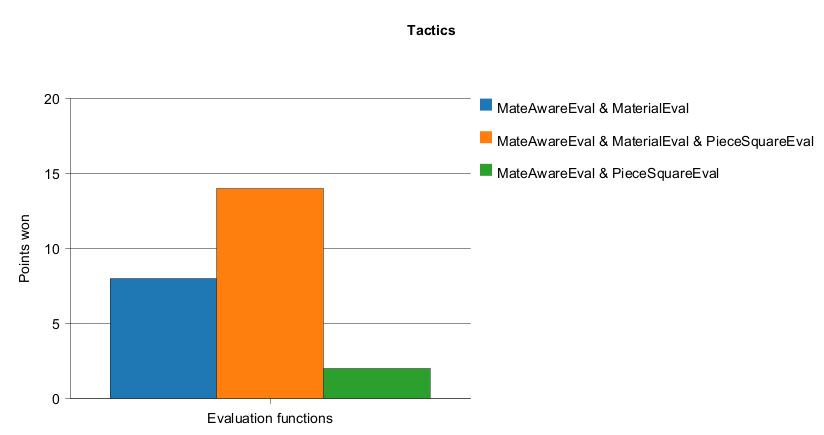
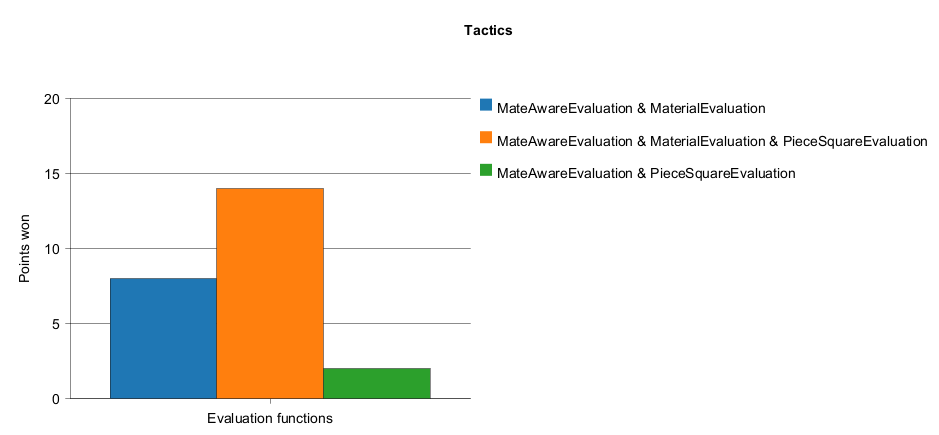
new names

diff --git a/docs/evaluation/report/movequality/Endgames.tex b/docs/evaluation/report/movequality/Endgames.tex
@@ -16,14 +16,14 @@
         >{\raggedright\arraybackslash}p{0.22\textwidth}|
         >{\centering\arraybackslash}p{0.30\textwidth}|
         >{\centering\arraybackslash}p{0.05\textwidth}|}
-\caption{Quality Test von Endgames / technique / zugzwang / fortress} \\
+\caption{Quality Test von Endgames} \\
 \hline
-\multicolumn{5}{|c|}{\textbf{Endgames / technique / zugzwang / fortress}} \\ \hline
+\multicolumn{5}{|c|}{\textbf{Endgames}} \\ \hline
 \textbf{FEN} & \textbf{Stockfish best next move} & \textbf{Evaluation} & \textbf{Move} & \textbf{Pkt.} \\ \hline
 \endfirsthead
 
 \hline
-\multicolumn{5}{|c|}{\textbf{Endgames / technique / zugzwang / fortress} -- Fortsetzung} \\ \hline
+\multicolumn{5}{|c|}{\textbf{Endgames} -- Fortsetzung} \\ \hline
 \textbf{FEN} & \textbf{Stockfish best next move} & \textbf{Evaluation} & \textbf{Move} & \textbf{Pkt.} \\ \hline
 \endhead
 
@@ -45,11 +45,11 @@
         1. f3a8\\2. f3e4\\3. f3b7\\4. f3d5\\5. f3b3
     \end{tabular}
 }
-& MateAwareEval \& MaterialEval & f3a8 & 8 \\
+& MateAwareEvaluation \& MaterialEvaluation & f3a8 & 8 \\
 \cline{3-5}
-&& MateAwareEval \& MaterialEval \& PieceSquareEval & f3a8 & 8 \\
+&& MateAwareEvaluation \& MaterialEvaluation \& PieceSquareEvaluation & f3a8 & 8 \\
 \cline{3-5}
-&& MateAwareEval \& PieceSquareEval & f3a8 & 8 \\
+&& MateAwareEvaluation \& PieceSquareEvaluation & f3a8 & 8 \\
 \hline
 \multirow{3}{*}{%
     \parbox[t]{0.18\textwidth}{\centering\footnotesize
@@ -62,11 +62,11 @@
         1. e3f4\\2. e3f3\\3. e3d3\\4. e3d2\\5. e3f2
     \end{tabular}
 }
-& MateAwareEval \& MaterialEval & e3d2, d5c4, e2e3, c4b3, e3e4, b3a2, e4e5, a2a1 & 2 \\
+& MateAwareEvaluation \& MaterialEvaluation & e3d2, d5c4, e2e3, c4b3, e3e4, b3a2, e4e5, a2a1 & 2 \\
 \cline{3-5}
-&& MateAwareEval \& MaterialEval \& PieceSquareEval & e3d3, d5c5, e2e4, c5c6, d3d4, c6d6, e4e5, d6e6 & 4 \\
+&& MateAwareEvaluation \& MaterialEvaluation \& PieceSquareEvaluation & e3d3, d5c5, e2e4, c5c6, d3d4, c6d6, e4e5, d6e6 & 4 \\
 \cline{3-5}
-&& MateAwareEval \& PieceSquareEval & e3d3, d5c5, e2e4, c5c6, d3d4, c6d6, e4e5, d6e6 & 4 \\
+&& MateAwareEvaluation \& PieceSquareEvaluation & e3d3, d5c5, e2e4, c5c6, d3d4, c6d6, e4e5, d6e6 & 4 \\
 \hline
 \multirow{3}{*}{%
     \parbox[t]{0.18\textwidth}{\centering\footnotesize
@@ -79,11 +79,11 @@
         1. f3g2\\2. f3f2\\3. f3e3\\4. f3e4\\5. f3g3
     \end{tabular}
 }
-& MateAwareEval \& MaterialEval & f3g2, c7c6, g2f1, c6c5, f1e1, c5b4, e1d1, b4a3 & 8 \\
+& MateAwareEvaluation \& MaterialEvaluation & f3g2, c7c6, g2f1, c6c5, f1e1, c5b4, e1d1, b4a3 & 8 \\
 \cline{3-5}
-&& MateAwareEval \& MaterialEval \& PieceSquareEval & f3g2, c7c6, g2f3, c6c5, f3e4, c5c4, e4e5, c4d3 & 8 \\
+&& MateAwareEvaluation \& MaterialEvaluation \& PieceSquareEvaluation & f3g2, c7c6, g2f3, c6c5, f3e4, c5c4, e4e5, c4d3 & 8 \\
 \cline{3-5}
-&& MateAwareEval \& PieceSquareEval & f3g2, c7c6, g2f3, c6c5, f3e4, c5c4, e4e5, c4d3 & 8 \\
+&& MateAwareEvaluation \& PieceSquareEvaluation & f3g2, c7c6, g2f3, c6c5, f3e4, c5c4, e4e5, c4d3 & 8 \\
 \hline
 \multirow{3}{*}{%
     \parbox[t]{0.18\textwidth}{\centering\footnotesize
@@ -96,11 +96,11 @@
         1. f2f3\\2. g3g4\\3. h2h4\\4. d4d1\\5. d4d2
     \end{tabular}
 }
-& MateAwareEval \& MaterialEval & f2f3, g6g5, h2h3, f7f5, f3f4, g5f4, g3f4, g7f6 & 8 \\
+& MateAwareEvaluation \& MaterialEvaluation & f2f3, g6g5, h2h3, f7f5, f3f4, g5f4, g3f4, g7f6 & 8 \\
 \cline{3-5}
-&& MateAwareEval \& MaterialEval \& PieceSquareEval & d4d6, g7h6, h2h4, h6h5, d6f6, g6g5, f6f7, g5h4 & 0 \\
+&& MateAwareEvaluation \& MaterialEvaluation \& PieceSquareEvaluation & d4d6, g7h6, h2h4, h6h5, d6f6, g6g5, f6f7, g5h4 & 0 \\
 \cline{3-5}
-&& MateAwareEval \& PieceSquareEval & d4d6, g6g5, g1f1, g7f8, d6e6, f7e6, f1e2, f8e7 & 0 \\
+&& MateAwareEvaluation \& PieceSquareEvaluation & d4d6, g6g5, g1f1, g7f8, d6e6, f7e6, f1e2, f8e7 & 0 \\
 \hline
 \multirow{3}{*}{%
     \parbox[t]{0.18\textwidth}{\centering\footnotesize
@@ -113,11 +113,11 @@
         1. d3e3\\2. d3c3
     \end{tabular}
 }
-& MateAwareEval \& MaterialEval & d3c3, d1e2, c3b2, e2d2, b2a1, d2c3, a1b1, c3d4 & 6 \\
+& MateAwareEvaluation \& MaterialEvaluation & d3c3, d1e2, c3b2, e2d2, b2a1, d2c3, a1b1, c3d4 & 6 \\
 \cline{3-5}
-&& MateAwareEval \& MaterialEval \& PieceSquareEval & d3e3, d1c2, e3e2, c2c3, e2e3, c3c4, e3f4, c4d4 & 8 \\
+&& MateAwareEvaluation \& MaterialEvaluation \& PieceSquareEvaluation & d3e3, d1c2, e3e2, c2c3, e2e3, c3c4, e3f4, c4d4 & 8 \\
 \cline{3-5}
-&& MateAwareEval \& PieceSquareEval & d3e3, d1c2, e3e2, c2c3, e2e3, c3c4, e3f4, c4d4 & 8 \\
+&& MateAwareEvaluation \& PieceSquareEvaluation & d3e3, d1c2, e3e2, c2c3, e2e3, c3c4, e3f4, c4d4 & 8 \\
 \hline
 \multirow{3}{*}{%
     \parbox[t]{0.18\textwidth}{\centering\footnotesize
@@ -130,11 +130,11 @@
         1. d2e3\\2. d2e2\\3. d2c1\\4. d2c2\\5. d2d1
     \end{tabular}
 }
-& MateAwareEval \& MaterialEval & d2c1, c5b5, c1b1, b5a4, b1c1, a4a3, c1b1, a3b3 & 4 \\
+& MateAwareEvaluation \& MaterialEvaluation & d2c1, c5b5, c1b1, b5a4, b1c1, a4a3, c1b1, a3b3 & 4 \\
 \cline{3-5}
-&& MateAwareEval \& MaterialEval \& PieceSquareEval & d2e3, c5d5, e3f4, d5c5, f4e4, c5c6, e4d4, c6d6 & 8 \\
+&& MateAwareEvaluation \& MaterialEvaluation \& PieceSquareEvaluation & d2e3, c5d5, e3f4, d5c5, f4e4, c5c6, e4d4, c6d6 & 8 \\
 \cline{3-5}
-&& MateAwareEval \& PieceSquareEval & d2e3, c5d5, e3f4, d5c5, f4e4, c5c6, e4d4, c6d6 & 8 \\
+&& MateAwareEvaluation \& PieceSquareEvaluation & d2e3, c5d5, e3f4, d5c5, f4e4, c5c6, e4d4, c6d6 & 8 \\
 \hline
 \multirow{3}{*}{%
     \parbox[t]{0.18\textwidth}{\centering\footnotesize
@@ -147,11 +147,11 @@
         1. f2g1\\2. f2f6\\3. f2f3\\4. f2f4\\5. f2b2
     \end{tabular}
 }
-& MateAwareEval \& MaterialEval & f2g1, c6b5, c3b2, b5a4, g1c5 & 8 \\
+& MateAwareEvaluation \& MaterialEvaluation & f2g1, c6b5, c3b2, b5a4, g1c5 & 8 \\
 \cline{3-5}
-&& MateAwareEval \& MaterialEval \& PieceSquareEval & f2g1, c6d5, g1e3, d5c6, e3e6, c6c5, c3d3, c5b4 & 8 \\
+&& MateAwareEvaluation \& MaterialEvaluation \& PieceSquareEvaluation & f2g1, c6d5, g1e3, d5c6, e3e6, c6c5, c3d3, c5b4 & 8 \\
 \cline{3-5}
-&& MateAwareEval \& PieceSquareEval & f2g1, c6d5, g1e3, d5c6, e3e6, c6c5, c3d3, c5b4 & 8 \\
+&& MateAwareEvaluation \& PieceSquareEvaluation & f2g1, c6d5, g1e3, d5c6, e3e6, c6c5, c3d3, c5b4 & 8 \\
 \hline
 \multirow{3}{*}{%
     \parbox[t]{0.18\textwidth}{\centering\footnotesize
@@ -164,11 +164,11 @@
         1. f2e2\\2. d4c3\\3. f2e3\\4. f2f3\\5. d4e3
     \end{tabular}
 }
-& MateAwareEval \& MaterialEval & g3g4, f5g4, f2g3, f7e6, g3g4, e6d5, d4a1, g6g5 & 0 \\
+& MateAwareEvaluation \& MaterialEvaluation & g3g4, f5g4, f2g3, f7e6, g3g4, e6d5, d4a1, g6g5 & 0 \\
 \cline{3-5}
-&& MateAwareEval \& MaterialEval \& PieceSquareEval & f2e2, f7e6, e2d3, e6d6, d3c4, d6e6, d4c3, g6g5 & 8 \\
+&& MateAwareEvaluation \& MaterialEvaluation \& PieceSquareEvaluation & f2e2, f7e6, e2d3, e6d6, d3c4, d6e6, d4c3, g6g5 & 8 \\
 \cline{3-5}
-&& MateAwareEval \& PieceSquareEval & f2e3, g6g5, f4g5, f7e6, g5g6, f5f4, g3f4, e6d5 & 4 \\
+&& MateAwareEvaluation \& PieceSquareEvaluation & f2e3, g6g5, f4g5, f7e6, g5g6, f5f4, g3f4, e6d5 & 4 \\
 \hline
 \end{longtable}
 \end{document}

diff --git a/docs/evaluation/report/movequality/DynamicPlay.tex b/docs/evaluation/report/movequality/DynamicPlay.tex
@@ -16,14 +16,14 @@
         >{\raggedright\arraybackslash}p{0.22\textwidth}|
         >{\centering\arraybackslash}p{0.30\textwidth}|
         >{\centering\arraybackslash}p{0.05\textwidth}|}
-\caption{Quality Test von Dynamic play / initiative / sacrifices} \\
+\caption{Quality Test von Dynamic play} \\
 \hline
-\multicolumn{5}{|c|}{\textbf{Dynamic play / initiative / sacrifices}} \\ \hline
+\multicolumn{5}{|c|}{\textbf{Dynamic play}} \\ \hline
 \textbf{FEN} & \textbf{Stockfish best next move} & \textbf{Evaluation} & \textbf{Move} & \textbf{Pkt.} \\ \hline
 \endfirsthead
 
 \hline
-\multicolumn{5}{|c|}{\textbf{Dynamic play / initiative / sacrifices} -- Fortsetzung} \\ \hline
+\multicolumn{5}{|c|}{\textbf{Dynamic play} -- Fortsetzung} \\ \hline
 \textbf{FEN} & \textbf{Stockfish best next move} & \textbf{Evaluation} & \textbf{Move} & \textbf{Pkt.} \\ \hline
 \endhead
 
@@ -45,11 +45,11 @@
         1. d4c5\\2. g2g4\\3. a2a3\\4. f3d2\\5. h2h3
     \end{tabular}
 }
-& MateAwareEval \& MaterialEval & d4c5, d6c5, a2a3, c5a3, b2a3, a5a3, d1d7, f6d7 & 8 \\
+& MateAwareEvaluation \& MaterialEvaluation & d4c5, d6c5, a2a3, c5a3, b2a3, a5a3, d1d7, f6d7 & 8 \\
 \cline{3-5}
-&& MateAwareEval \& MaterialEval \& PieceSquareEval & c1a1, c5d4, e3d4, c6c5, c3e4, f6e4, c2e4, c5d4 & 0 \\
+&& MateAwareEvaluation \& MaterialEvaluation \& PieceSquareEvaluation & c1a1, c5d4, e3d4, c6c5, c3e4, f6e4, c2e4, c5d4 & 0 \\
 \cline{3-5}
-&& MateAwareEval \& PieceSquareEval & c2h7, f6h7, f3e5, c5d4, e3d4, h7f6, c3e4, d7e5 & 0 \\
+&& MateAwareEvaluation \& PieceSquareEvaluation & c2h7, f6h7, f3e5, c5d4, e3d4, h7f6, c3e4, d7e5 & 0 \\
 \hline
 \multirow{3}{*}{%
     \parbox[t]{0.18\textwidth}{\centering\footnotesize
@@ -62,11 +62,11 @@
         1. a2a4\\2. a2a3\\3. b2b3\\4. c3e2\\5. h2h3
     \end{tabular}
 }
-& MateAwareEval \& MaterialEval & c1d2, a7a6, g2g4, f6g4, c3b1, g4e3, d2e3, a5a2 & 0 \\
+& MateAwareEvaluation \& MaterialEvaluation & c1d2, a7a6, g2g4, f6g4, c3b1, g4e3, d2e3, a5a2 & 0 \\
 \cline{3-5}
-&& MateAwareEval \& MaterialEval \& PieceSquareEval & c1d2, a5b6, f3g5, g7g6, c3a4, b6c7, h2h3, e6e5 & 0 \\
+&& MateAwareEvaluation \& MaterialEvaluation \& PieceSquareEvaluation & c1d2, a5b6, f3g5, g7g6, c3a4, b6c7, h2h3, e6e5 & 0 \\
 \cline{3-5}
-&& MateAwareEval \& PieceSquareEval & d3h7, g8h8, h7g8, a5c3, c2h7, f6h7, g8f7, h7f6 & 0 \\
+&& MateAwareEvaluation \& PieceSquareEvaluation & d3h7, g8h8, h7g8, a5c3, c2h7, f6h7, g8f7, h7f6 & 0 \\
 \hline
 \multirow{3}{*}{%
     \parbox[t]{0.18\textwidth}{\centering\footnotesize
@@ -79,11 +79,11 @@
         1. f6f3\\2. f6h6\\3. f6e7\\4. f6h4\\5. c6d4
     \end{tabular}
 }
-& MateAwareEval \& MaterialEval & f6f3, g2f3, c6d4, a2a3, d4c2, a1b1, d6d5, e4d5 & 8 \\
+& MateAwareEvaluation \& MaterialEvaluation & f6f3, g2f3, c6d4, a2a3, d4c2, a1b1, d6d5, e4d5 & 8 \\
 \cline{3-5}
-&& MateAwareEval \& MaterialEval \& PieceSquareEval & f6f3, g2f3, c6d4, c3b5, d4f3, g1h1, d6d5, e4d5 & 8 \\
+&& MateAwareEvaluation \& MaterialEvaluation \& PieceSquareEvaluation & f6f3, g2f3, c6d4, c3b5, d4f3, g1h1, d6d5, e4d5 & 8 \\
 \cline{3-5}
-&& MateAwareEval \& PieceSquareEval & f6f3, g2f3, c6d4, f3f4, a8d8, c4f7, g8f7, f4e5 & 8 \\
+&& MateAwareEvaluation \& PieceSquareEvaluation & f6f3, g2f3, c6d4, f3f4, a8d8, c4f7, g8f7, f4e5 & 8 \\
 \hline
 \multirow{3}{*}{%
     \parbox[t]{0.18\textwidth}{\centering\footnotesize
@@ -96,11 +96,11 @@
         1. a7a6\\2. c8g4\\3. g8h8\\4. h7h6\\5. c6a5
     \end{tabular}
 }
-& MateAwareEval \& MaterialEval & a7a5, a2a3, b7b5, c3b5, c8g4, b2b3, g4f3, g2f3 & 0 \\
+& MateAwareEvaluation \& MaterialEvaluation & a7a5, a2a3, b7b5, c3b5, c8g4, b2b3, g4f3, g2f3 & 0 \\
 \cline{3-5}
-&& MateAwareEval \& MaterialEval \& PieceSquareEval & c8g4, h2h3, g4f3, d1f3, c6d4, c4f7, f8f7, f3f6 & 6 \\
+&& MateAwareEvaluation \& MaterialEvaluation \& PieceSquareEvaluation & c8g4, h2h3, g4f3, d1f3, c6d4, c4f7, f8f7, f3f6 & 6 \\
 \cline{3-5}
-&& MateAwareEval \& PieceSquareEval & d6d5, f3e5, c6e5, c1f4, c8f5, f4e5, f6e4, d3e4 & 0 \\
+&& MateAwareEvaluation \& PieceSquareEvaluation & d6d5, f3e5, c6e5, c1f4, c8f5, f4e5, f6e4, d3e4 & 0 \\
 \hline
 \end{longtable}
 \end{document}

diff --git a/docs/evaluation/report/movequality/PositionalPlay.tex b/docs/evaluation/report/movequality/PositionalPlay.tex
@@ -16,14 +16,14 @@
         >{\raggedright\arraybackslash}p{0.22\textwidth}|
         >{\centering\arraybackslash}p{0.30\textwidth}|
         >{\centering\arraybackslash}p{0.05\textwidth}|}
-\caption{Quality Test von Positional play / prophylaxis} \\
+\caption{Quality Test von Positional play} \\
 \hline
-\multicolumn{5}{|c|}{\textbf{Positional play / prophylaxis}} \\ \hline
+\multicolumn{5}{|c|}{\textbf{Positional play}} \\ \hline
 \textbf{FEN} & \textbf{Stockfish best next move} & \textbf{Evaluation} & \textbf{Move} & \textbf{Pkt.} \\ \hline
 \endfirsthead
 
 \hline
-\multicolumn{5}{|c|}{\textbf{Positional play / prophylaxis} -- Fortsetzung} \\ \hline
+\multicolumn{5}{|c|}{\textbf{Positional play} -- Fortsetzung} \\ \hline
 \textbf{FEN} & \textbf{Stockfish best next move} & \textbf{Evaluation} & \textbf{Move} & \textbf{Pkt.} \\ \hline
 \endhead
 
@@ -45,11 +45,11 @@
         1. c1c8\\2. c1c5\\3. c1d1\\4. c1e1\\5. c1f1
     \end{tabular}
 }
-& MateAwareEval \& MaterialEval & c1c8, g8h7, c8a8, b5b4, a8a6, h6h5, g2g3, h5h4 & 8 \\
+& MateAwareEvaluation \& MaterialEvaluation & c1c8, g8h7, c8a8, b5b4, a8a6, h6h5, g2g3, h5h4 & 8 \\
 \cline{3-5}
-&& MateAwareEval \& MaterialEval \& PieceSquareEval & c1c8, g8h7, c8a8, h7g6, a8a6, g6f5, g2g3, f5e4 & 8 \\
+&& MateAwareEvaluation \& MaterialEvaluation \& PieceSquareEvaluation & c1c8, g8h7, c8a8, h7g6, a8a6, g6f5, g2g3, f5e4 & 8 \\
 \cline{3-5}
-&& MateAwareEval \& PieceSquareEval & g1f2, c8c1, f4f5, c1e1, f2g3, e1e4, f5e6, e4e5 & 0 \\
+&& MateAwareEvaluation \& PieceSquareEvaluation & g1f2, c8c1, f4f5, c1e1, f2g3, e1e4, f5e6, e4e5 & 0 \\
 \hline
 \multirow{3}{*}{%
     \parbox[t]{0.18\textwidth}{\centering\footnotesize
@@ -62,11 +62,11 @@
         1. c3e2\\2. a2a3\\3. c2d2\\4. e4e5\\5. h2h3
     \end{tabular}
 }
-& MateAwareEval \& MaterialEval & b3c5, d6c5, a2a3, b5b4, c3b1, b4a3, b2a3, f6e4 & 0 \\
+& MateAwareEvaluation \& MaterialEvaluation & b3c5, d6c5, a2a3, b5b4, c3b1, b4a3, b2a3, f6e4 & 0 \\
 \cline{3-5}
-&& MateAwareEval \& MaterialEval \& PieceSquareEval & c3e2, h7h6, e2g3, b7c6, b3d4, c6b7, f3f4, f6e4 & 8 \\
+&& MateAwareEvaluation \& MaterialEvaluation \& PieceSquareEvaluation & c3e2, h7h6, e2g3, b7c6, b3d4, c6b7, f3f4, f6e4 & 8 \\
 \cline{3-5}
-&& MateAwareEval \& PieceSquareEval & f3f4, b7e4, b3c5, c7c5, c2e4, c5f5, e4f5, d6d5 & 0 \\
+&& MateAwareEvaluation \& PieceSquareEvaluation & f3f4, b7e4, b3c5, c7c5, c2e4, c5f5, e4f5, d6d5 & 0 \\
 \hline
 \multirow{3}{*}{%
     \parbox[t]{0.18\textwidth}{\centering\footnotesize
@@ -79,11 +79,11 @@
         1. c3d5\\2. a1b1\\3. a2a3\\4. c1d2\\5. h2h3
     \end{tabular}
 }
-& MateAwareEval \& MaterialEval & a2a3, a7a5, b2b3, a5a4, b3a4, e6g4, f3e5, d6e5 & 4 \\
+& MateAwareEvaluation \& MaterialEvaluation & a2a3, a7a5, b2b3, a5a4, b3a4, e6g4, f3e5, d6e5 & 4 \\
 \cline{3-5}
-&& MateAwareEval \& MaterialEval \& PieceSquareEval & c3d5, h7h6, h2h3, e6d5, c4d5, c6b4, c1e3, b4d5 & 8 \\
+&& MateAwareEvaluation \& MaterialEvaluation \& PieceSquareEvaluation & c3d5, h7h6, h2h3, e6d5, c4d5, c6b4, c1e3, b4d5 & 8 \\
 \cline{3-5}
-&& MateAwareEval \& PieceSquareEval & c1f4, d6d5, c4d5, d8d5, f4e5, d5e4, d3e4, f6e4 & 0 \\
+&& MateAwareEvaluation \& PieceSquareEvaluation & c1f4, d6d5, c4d5, d8d5, f4e5, d5e4, d3e4, f6e4 & 0 \\
 \hline
 \end{longtable}
 \end{document}

diff --git a/docs/evaluation/report/movequality/Tactics.tex b/docs/evaluation/report/movequality/Tactics.tex
@@ -45,11 +45,11 @@
         1. d5f6\\2. f2f4\\3. c4d3\\4. a2a4\\5. c4e2
     \end{tabular}
 }
-& MateAwareEval \& MaterialEval & c1g5, f6d5, e4d5, d8g5, d5e6, f7e6, c4e6, f8f7 & 0 \\
+& MateAwareEvaluation \& MaterialEvaluation & c1g5, f6d5, e4d5, d8g5, d5e6, f7e6, c4e6, f8f7 & 0 \\
 \cline{3-5}
-&& MateAwareEval \& MaterialEval \& PieceSquareEval & c1g5, f6d5, e4d5, d8g5, d5e6, c6d4, e6f7, f8f7 & 0 \\
+&& MateAwareEvaluation \& MaterialEvaluation \& PieceSquareEvaluation & c1g5, f6d5, e4d5, d8g5, d5e6, c6d4, e6f7, f8f7 & 0 \\
 \cline{3-5}
-&& MateAwareEval \& PieceSquareEval & c1f4, f6e4, d1h5, e4c3, h5h7, g8h7, f4e5, d6e5 & 0 \\
+&& MateAwareEvaluation \& PieceSquareEvaluation & c1f4, f6e4, d1h5, e4c3, h5h7, g8h7, f4e5, d6e5 & 0 \\
 \hline
 \multirow{3}{*}{%
     \parbox[t]{0.18\textwidth}{\centering\footnotesize
@@ -62,11 +62,11 @@
         1. f3e1\\2. c1g5\\3. h2h3\\4. d1d2\\5. f3d2
     \end{tabular}
 }
-& MateAwareEval \& MaterialEval & a2a3, h7h6, b2b3, a7a5, h2h3, h6h5, g2g3, f6e4 & 0 \\
+& MateAwareEvaluation \& MaterialEvaluation & a2a3, h7h6, b2b3, a7a5, h2h3, h6h5, g2g3, f6e4 & 0 \\
 \cline{3-5}
-&& MateAwareEval \& MaterialEval \& PieceSquareEval & c1g5, h7h6, g5f6, d8f6, c4b5, c6b4, f3d2, b4d3 & 6 \\
+&& MateAwareEvaluation \& MaterialEvaluation \& PieceSquareEvaluation & c1g5, h7h6, g5f6, d8f6, c4b5, c6b4, f3d2, b4d3 & 6 \\
 \cline{3-5}
-&& MateAwareEval \& PieceSquareEval & d3d4, c8f5, e4f5, e5d4, d1d4, d6d5, d4d5, f6d5 & 0 \\
+&& MateAwareEvaluation \& PieceSquareEvaluation & d3d4, c8f5, e4f5, e5d4, d1d4, d6d5, d4d5, f6d5 & 0 \\
 \hline
 \multirow{3}{*}{%
     \parbox[t]{0.18\textwidth}{\centering\footnotesize
@@ -79,11 +79,11 @@
         1. a7a8q\\2. a7a8r\\3. a7a8b\\4. e1d2\\5. e1d1
     \end{tabular}
 }
-& MateAwareEval \& MaterialEval & a7a8q, e8d7, a8h1, d7d6, h1h2, d6c5, h2g1, c5b4 & 8 \\
+& MateAwareEvaluation \& MaterialEvaluation & a7a8q, e8d7, a8h1, d7d6, h1h2, d6c5, h2g1, c5b4 & 8 \\
 \cline{3-5}
-&& MateAwareEval \& MaterialEval \& PieceSquareEval & a7a8q, e8d7, a8h1, d7d6, h1h2, d6c5, e1d2, c5d4 & 8 \\
+&& MateAwareEvaluation \& MaterialEvaluation \& PieceSquareEvaluation & a7a8q, e8d7, a8h1, d7d6, h1h2, d6c5, e1d2, c5d4 & 8 \\
 \cline{3-5}
-&& MateAwareEval \& PieceSquareEval & e1d2, e8d7, d2c3, d7c6, c3c4, c6d6, c4d4, d6e6 & 2 \\
+&& MateAwareEvaluation \& PieceSquareEvaluation & e1d2, e8d7, d2c3, d7c6, c3c4, c6d6, c4d4, d6e6 & 2 \\
 \hline
 \end{longtable}
 \end{document}

diff --git a/docs/evaluation/zugqualitaet.tex b/docs/evaluation/zugqualitaet.tex
@@ -51,14 +51,14 @@ jedoch nicht mehr die einzelnen Züge und deren Ergebnisse zu sehen. Diese sind 
 
 \begin{figure}[H]
     \centering
-    \includegraphics[width=\linewidth]{evaluation/report/movequality/DynamicPlayInitiativeSacrifices}
+    \includegraphics[width=\linewidth]{evaluation/report/movequality/DynamicPlay}
     \caption{Testresultat Zugqualität - Dynamic play}
     \label{fig:resultatZugQualityDynamicPlay}
 \end{figure}
 
 \begin{figure}[H]
     \centering
-    \includegraphics[width=\linewidth]{evaluation/report/movequality/EndgamesTechniqueZugzwangFortress}
+    \includegraphics[width=\linewidth]{evaluation/report/movequality/Endgames}
     \caption{Testresultat Zugqualität - Endgames}
     \label{fig:resultatZugEndgame}
 \end{figure}
@@ -66,7 +66,7 @@ jedoch nicht mehr die einzelnen Züge und deren Ergebnisse zu sehen. Diese sind 
 
 \begin{figure}[H]
     \centering
-    \includegraphics[width=\linewidth]{evaluation/report/movequality/PositionalPlayProphylaxis}
+    \includegraphics[width=\linewidth]{evaluation/report/movequality/PositionalPlay}
     \caption{Testresultat Zugqualität - Positional play}
     \label{fig:resultatZugQualityPositonalPlay}
 \end{figure}

diff --git a/docs/evaluation/report/movequality/Overall.tex b/docs/evaluation/report/movequality/Overall.tex
@@ -12,9 +12,9 @@
                              >{\centering\arraybackslash}p{0.20\textwidth}|}
                          \hline
                          \textbf{Rang} & \textbf{Evaluation} & \textbf{Gewonnene Punkte von 144} \\ \hline
-1 & MateAwareEval \& MaterialEval \& PieceSquareEval & 104 \\ \hline
-2 & MateAwareEval \& MaterialEval & 80 \\ \hline
-3 & MateAwareEval \& PieceSquareEval & 58 \\ \hline            \end{tabular}
+1 & MateAwareEvaluation \& MaterialEvaluation \& PieceSquareEvaluation & 104 \\ \hline
+2 & MateAwareEvaluation \& MaterialEvaluation & 80 \\ \hline
+3 & MateAwareEvaluation \& PieceSquareEvaluation & 58 \\ \hline            \end{tabular}
         \caption{Quality Test Rangliste}
    \end{table}
 \end{document}

diff --git a/docs/anhang/evaluation_movequality.tex b/docs/anhang/evaluation_movequality.tex
@@ -1,10 +1,10 @@
 \chapter{Zugqualität Daten}
 \label{zugqualit_tabel}
 
-\subfile{evaluation/report/movequality/DynamicPlayInitiativeSacrifices.tex}
+\subfile{evaluation/report/movequality/DynamicPlay.tex}
 \newpage
-\subfile{evaluation/report/movequality/EndgamesTechniqueZugzwangFortress.tex}
+\subfile{evaluation/report/movequality/Endgames.tex}
 \newpage
-\subfile{evaluation/report/movequality/PositionalPlayProphylaxis.tex}
+\subfile{evaluation/report/movequality/PositionalPlay.tex}
 \newpage
 \subfile{evaluation/report/movequality/Tactics.tex}
